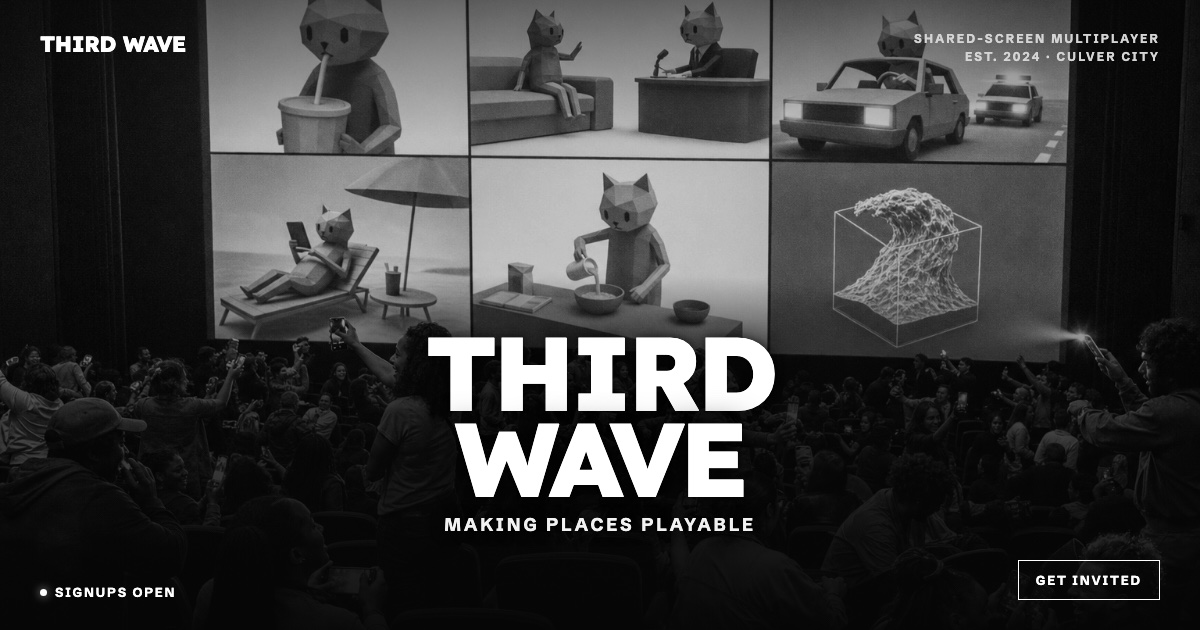
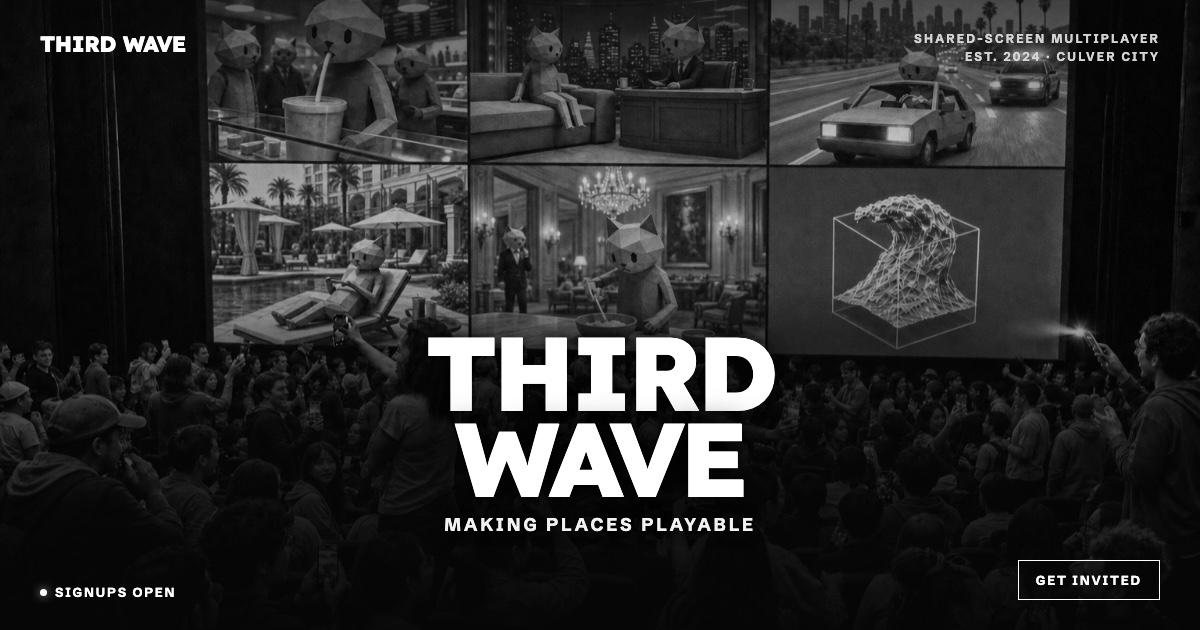
althome: ctx-3 hero (cats in context, calmer locked crowd) + OG card

diff --git a/public/althome/index.html b/public/althome/index.html
@@ -125,7 +125,7 @@
 <body>
   <!-- PLAYERS / HERO -->
   <section class="hero">
-    <img src="gen/hero-th-4.jpg" alt="A packed theater of people playing with their phones as controllers, facing a huge screen split into six panels of deadpan low-poly 3D cats living absurd celebrity lives, with the Third Wave wave-cube logo as one panel">
+    <img src="gen/hero-ctx-3.jpg" alt="A packed theater of people playing with their phones as controllers, facing a huge screen split into six panels of deadpan low-poly 3D cats living absurd celebrity lives — a smoothie bar, a talk-show set, an LA freeway chase, a hotel pool, a mansion — with the Third Wave wave-cube logo as one panel">
     <div class="scrim"></div>
     <div class="ov">
       <div class="top">

diff --git a/public/althome/og-card.html b/public/althome/og-card.html
@@ -23,7 +23,7 @@
 </style></head>
 <body>
   <div class="card">
-    <img src="gen/hero-th-4.jpg" alt="">
+    <img src="gen/hero-ctx-3.jpg" alt="">
     <div class="scrim"></div>
     <div class="ov">
       <div class="top">